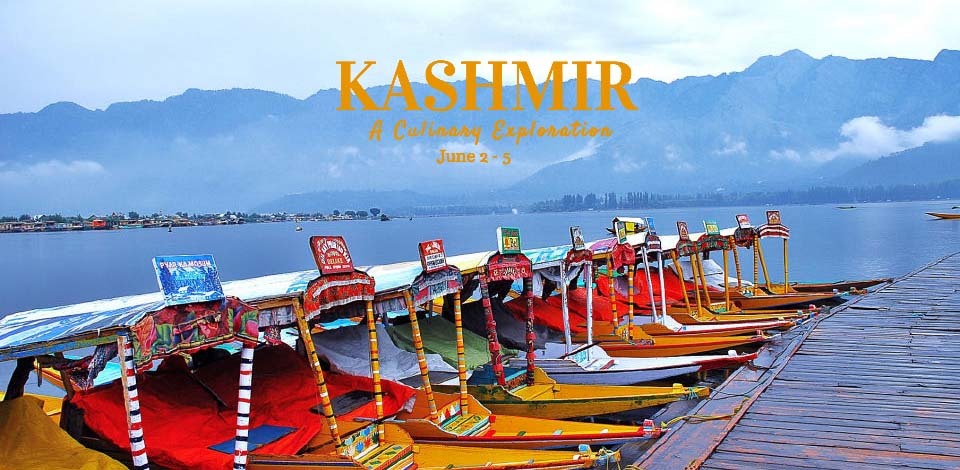
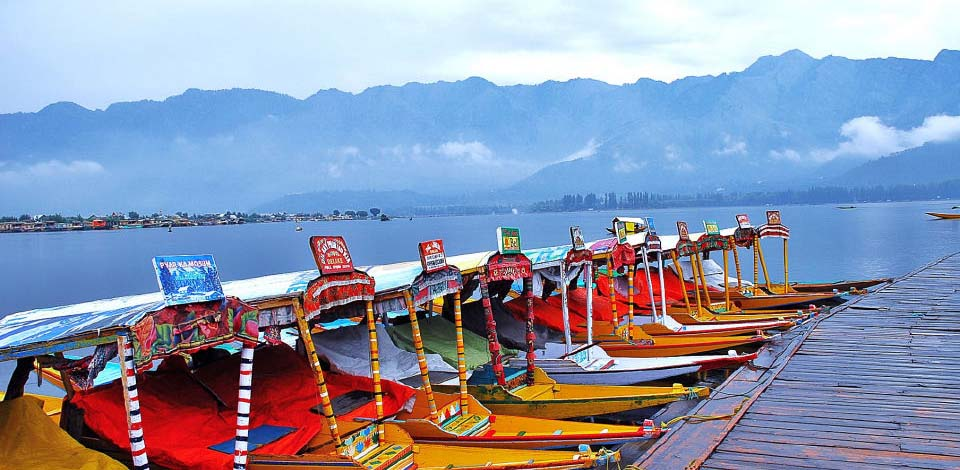
kashmir tour

Changed region(s): [[0.3438, 0.1191, 0.6875, 0.3574]]

diff --git a/views/79.php b/views/79.php
@@ -160,10 +160,13 @@
         </div>
         <div class="row">
           <div class="col s12 m12 l12 center mt-l">
-            <h4 class="">Foodtalk Wants to Know you Better<h4>
+          	<h3>Offroads India & Food Talk India</h3>
+          	<p>present</p>
+            <h4 class="">Kashmir a Culinary Exploration<h4>
+            <p>June 2-5</p>
           </div>
           <div class="col s12 m10 offset-m1 l10 offset-l1 center">
-            
+            <p>Fill your details </p>
           </div>
           
           <div class="col s12 m12 l12  red-c">
